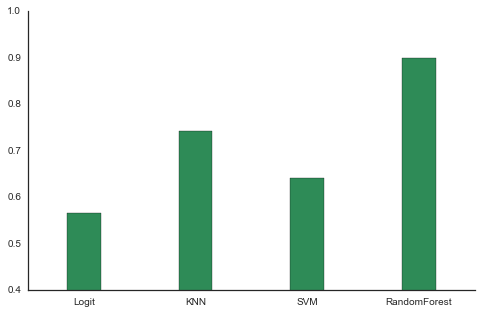
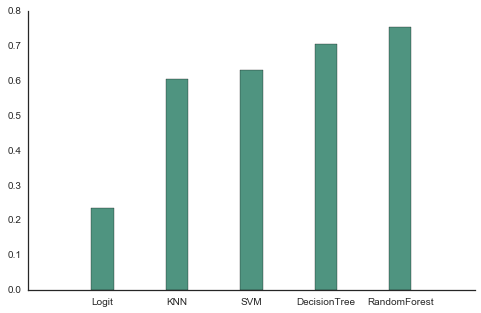
plots and more

diff --git a/_posts/2016-05-13-classifiers.md b/_posts/2016-05-13-classifiers.md
@@ -44,11 +44,35 @@ Anyway, these two valuable lessons are now learnt and I shall carry them with me
 
 I got this dataset from [UCI]() along with a paper by --- explaining his logic and process. I used openCV to extract some of the features he mentioned in his thesis. All of which were present in the dataset itself, but just to get a feel for the openCV package and learn a bit about image processing.
 
+### Basic Cleaning
+
+I remember when I started working with and how long it took to get the basics down because everyone assumes they are a no-brainer. So I'm going to mention a little about cleaning the data in every project I post. 
+
+This data was pretty clean already so it was just a case of organising and understanding it.
+
+I replaced string nans with float `nan` so that they would be recognised as non-values specifically.
+
+I grouped my data by species to have a look at the summary of differed variables per species. To see whether something was largely nans and just to understand the metrics a little better because they consisted of things like 'Eccentricity', 'Solidity' and 'Isoperimetric Factor'... (see end for explanation of these terms).
+
+I created a reduced dataset that didn't have things in it I wasn't planning on using in my analysis and I `pickled` that so that I could just load it up again if I quit the programme.
+
+TEST TRAIN SPLIT - very important. I had 30 species and only 8-15 specimens per species so it was important to do a stratified split so that all the species were present in both the training and the test set.
+
+I used `seaborn` and `matplotlib` to plot some of the features(variables) in the training set.
+Included having some fun with violin and swarm plots. Just another way of visualising the distribution within a feature. This violin plot is the coloured section, which represents the density of data points at a certain value and the swarm plot just puts the actual data points on there as well.
+
+![](https://github.com/deenhe91/deenhe91.github.io/blob/master/images/class_swarmplot.png?raw=true)
+
 I did a feature importance analysis to pull out the most important ones, as a few of the features were mathematically related to each other and also there were 16. So it couldn't hurt to prune some out. Here was the result:
 
 ![](https://github.com/deenhe91/deenhe91.github.io/blob/master/images/class_features.png?raw=true)
 
-I took the top 5 and then used a bunch of classifier algorithms to try and find the most accurate classification system: Regression, SVM, Decision Tree, and Random Forest. All sci-kit learn fuelled. 
+I tried running my classifier models with the top 9, and then 10, and then 11, features but my accuracy score for each model dropped a lot, some by 20 points. So I stuck with all 16.
+
+A little sidenote - I plotted a scatter matrix for my features which is just a matrix of scatter plots that shows you how each pair of variables are related. Down the diagonal (where the one variable would be compared with itself) is a KDE plot for that particular variable. That just shows the distribution within the variable. This is a great and reasonable quick way to visually understand your data and the relaitonships within it - that is, if you don't have more than 10 or 15 variables..
+
+![](https://github.com/deenhe91/deenhe91.github.io/blob/master/images/ClassScatter_matrix.png?raw=true)
+
 
 ### A little summary of the classifiers
 
@@ -63,7 +87,7 @@ A kernel will increase the dimensionality, draw a line in the higher dimension s
 
 ##### DECISION TREES and RANDOM FORESTS
 
-![](https://github.com/deenhe91/deenhe91.github.io/blob/master/images/forest.jpg?raw=true)
+
 
 These are probably my favourite classifier. They are super visual and really intuitive but also really effective in lots of situations. A decision tree consists of a starting point, where you have ALL your data, and then you split that data by asking a simple yes/no question(can be a question with more than two answers but the standard is 2) and splitting the data accordingly. For example, is your leaf longer than 10cm? Yes: contains all leaves longer than 10cm, and No: contains all leaves shorted than 10cm. You set how many questions you want to ask, or more properly, how many levels you want the tree to contain and _Voilá_! You end up with categories into which new leaves will be classified. With labeled data, the accuracy score is the probability that a leaf is correctly classified.
 
